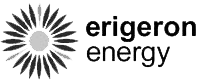
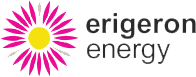
Add colored images, add filter transition in css.

diff --git a/style.css b/style.css
@@ -70,6 +70,12 @@ h2, h4 {
 	width: 300px;
 	height: 300px;
 	margin: 20px;
+	filter: grayscale(100%);
+	transition: 0.2s;
+}
+
+.card:hover {
+	filter: grayscale(0%);
 }
 
 .card-head {
